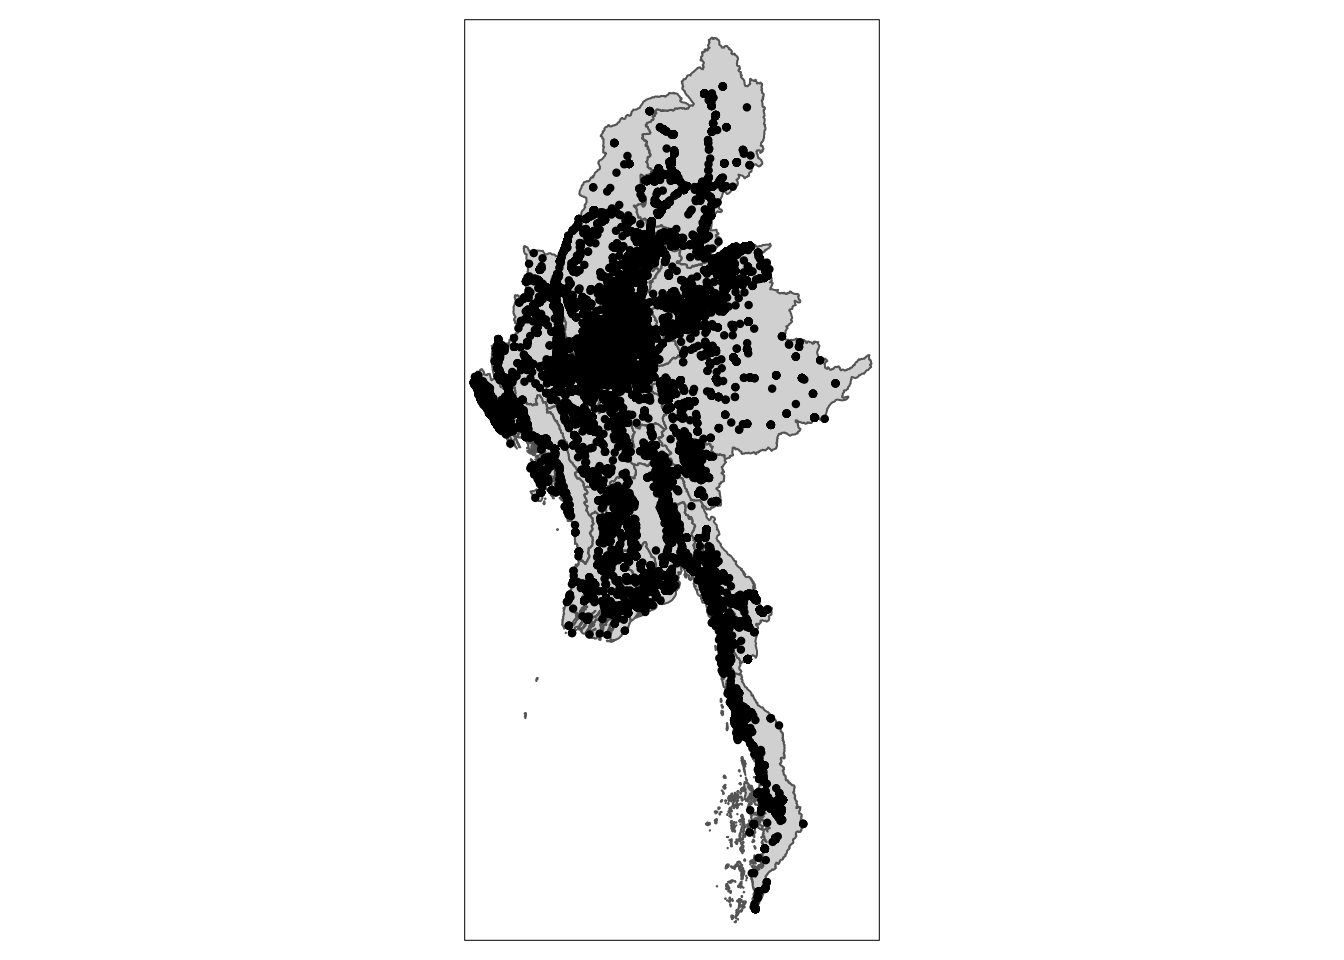
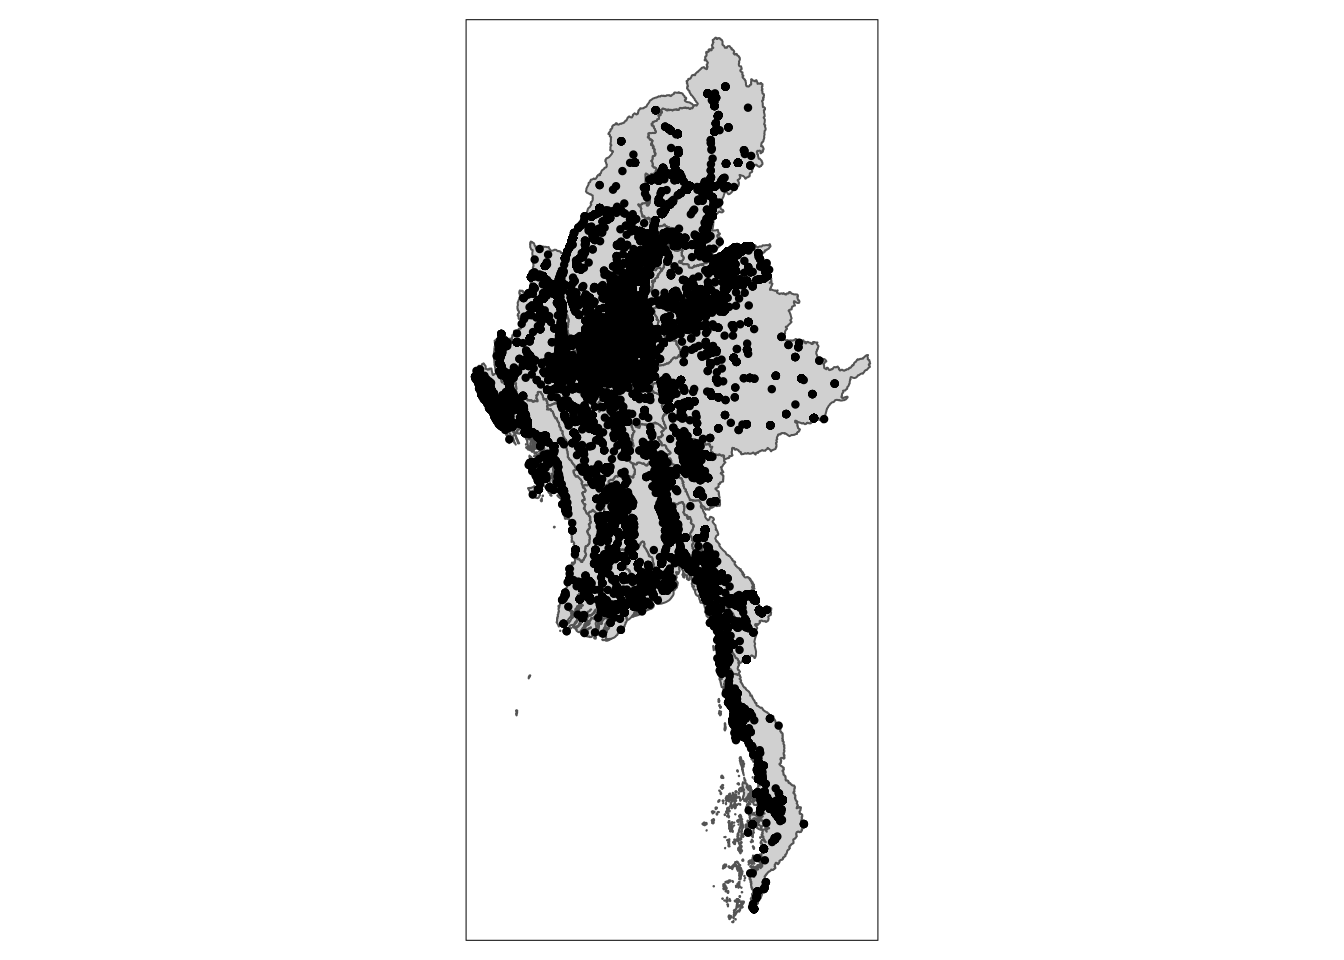
KDE for all quarters TH1

diff --git a/_site/TakeHome/TakeHome1/take-home-1.html b/_site/TakeHome/TakeHome1/take-home-1.html
@@ -212,9 +212,10 @@ pre > code.sourceCode > span > a:first-child::before { text-decoration: underlin
   <li><a href="#th1.3.1-loading-r-packages-and-aspatial-data" id="toc-th1.3.1-loading-r-packages-and-aspatial-data" class="nav-link" data-scroll-target="#th1.3.1-loading-r-packages-and-aspatial-data">TH1.3.1 Loading R packages and aspatial data</a></li>
   <li><a href="#th1.3.2-loading-and-plotting-geospatial-data" id="toc-th1.3.2-loading-and-plotting-geospatial-data" class="nav-link" data-scroll-target="#th1.3.2-loading-and-plotting-geospatial-data">TH1.3.2 Loading and plotting geospatial data</a></li>
   <li><a href="#th1.3.3-creating-sf-data-frame-from-aspatial-data" id="toc-th1.3.3-creating-sf-data-frame-from-aspatial-data" class="nav-link" data-scroll-target="#th1.3.3-creating-sf-data-frame-from-aspatial-data">TH1.3.3 Creating <code>sf</code> data frame from aspatial data</a></li>
+  <li><a href="#th1.3.4-final-steps-to-prepare-for-kde" id="toc-th1.3.4-final-steps-to-prepare-for-kde" class="nav-link" data-scroll-target="#th1.3.4-final-steps-to-prepare-for-kde">TH1.3.4 Final steps to prepare for KDE</a></li>
   </ul></li>
   <li><a href="#th1.4-interlude-a-brief-history-of-myanmars-ethnic-groups" id="toc-th1.4-interlude-a-brief-history-of-myanmars-ethnic-groups" class="nav-link" data-scroll-target="#th1.4-interlude-a-brief-history-of-myanmars-ethnic-groups">TH1.4 Interlude: A brief history of Myanmar’s ethnic groups</a></li>
-  <li><a href="#th1.5-first-order-sppa" id="toc-th1.5-first-order-sppa" class="nav-link" data-scroll-target="#th1.5-first-order-sppa">TH1.5 First Order SPPA</a></li>
+  <li><a href="#th1.5-first-order-sppa---kde" id="toc-th1.5-first-order-sppa---kde" class="nav-link" data-scroll-target="#th1.5-first-order-sppa---kde">TH1.5 First Order SPPA - KDE</a></li>
   <li><a href="#references" id="toc-references" class="nav-link" data-scroll-target="#references">References</a></li>
   <li><a href="#annex-a-spatial-temporal-distribution-of-armed-conflict-occurrences-in-myanmar-between-2019-and-2023" id="toc-annex-a-spatial-temporal-distribution-of-armed-conflict-occurrences-in-myanmar-between-2019-and-2023" class="nav-link" data-scroll-target="#annex-a-spatial-temporal-distribution-of-armed-conflict-occurrences-in-myanmar-between-2019-and-2023">Annex A: Spatial-temporal distribution of armed conflict occurrences in Myanmar between 2019 and 2023</a></li>
   </ul>
@@ -250,7 +251,7 @@ pre > code.sourceCode > span > a:first-child::before { text-decoration: underlin
     <div>
     <div class="quarto-title-meta-heading">Modified</div>
     <div class="quarto-title-meta-contents">
-      <p class="date-modified">September 11, 2024</p>
+      <p class="date-modified">September 12, 2024</p>
     </div>
   </div>
     
@@ -379,10 +380,10 @@ First 10 features:
 <div class="cell">
 <div class="sourceCode cell-code" id="cb10"><pre class="sourceCode r code-with-copy"><code class="sourceCode r"><span id="cb10-1"><a href="#cb10-1" aria-hidden="true" tabindex="-1"></a>acled_mya_sf <span class="ot">&lt;-</span> <span class="fu">st_as_sf</span>(acled_mya, <span class="at">coords =</span> <span class="fu">c</span>(<span class="st">"longitude"</span>, <span class="st">"latitude"</span>), <span class="at">crs =</span> <span class="dv">4326</span>)</span></code><button title="Copy to Clipboard" class="code-copy-button"><i class="bi"></i></button></pre></div>
 </div>
-<p>The EPSG area code for Myanmar is <a href="https://epsg.io/4239"><code>4239</code></a>. Before we work further with our datasets, we will need to transform the coordinate system to use it.</p>
+<p>The EPSG area code for Myanmar is <a href="https://epsg.io/4239"><code>4239</code></a>, while the WGS 84-compatible code is <a href="https://epsg.io/32647"><code>32647</code></a>. Since we’re creating an <code>owin</code> object later, we need to first convert our coordinate system.</p>
 <div class="cell">
-<div class="sourceCode cell-code" id="cb11"><pre class="sourceCode r code-with-copy"><code class="sourceCode r"><span id="cb11-1"><a href="#cb11-1" aria-hidden="true" tabindex="-1"></a>acled_mya_sf <span class="ot">&lt;-</span> acled_mya_sf <span class="sc">%&gt;%</span> <span class="fu">st_transform</span>(<span class="at">crs =</span> <span class="dv">4239</span>)</span>
-<span id="cb11-2"><a href="#cb11-2" aria-hidden="true" tabindex="-1"></a>mmr_admin1 <span class="ot">&lt;-</span> mmr_admin1 <span class="sc">%&gt;%</span> <span class="fu">st_transform</span>(<span class="at">crs =</span> <span class="dv">4239</span>)</span>
+<div class="sourceCode cell-code" id="cb11"><pre class="sourceCode r code-with-copy"><code class="sourceCode r"><span id="cb11-1"><a href="#cb11-1" aria-hidden="true" tabindex="-1"></a>acled_mya_sf <span class="ot">&lt;-</span> acled_mya_sf <span class="sc">%&gt;%</span> <span class="fu">st_transform</span>(<span class="at">crs =</span> <span class="dv">32647</span>)</span>
+<span id="cb11-2"><a href="#cb11-2" aria-hidden="true" tabindex="-1"></a>mmr_admin1 <span class="ot">&lt;-</span> mmr_admin1 <span class="sc">%&gt;%</span> <span class="fu">st_transform</span>(<span class="at">crs =</span> <span class="dv">32647</span>)</span>
 <span id="cb11-3"><a href="#cb11-3" aria-hidden="true" tabindex="-1"></a><span class="fu">tm_shape</span>(mmr_admin1) <span class="sc">+</span> <span class="fu">tm_polygons</span>() <span class="sc">+</span> <span class="fu">tm_shape</span>(acled_mya_sf) <span class="sc">+</span> <span class="fu">tm_dots</span>(<span class="at">size =</span> <span class="fl">0.05</span>)</span></code><button title="Copy to Clipboard" class="code-copy-button"><i class="bi"></i></button></pre></div>
 <div class="cell-output-display">
 <div>
@@ -399,15 +400,112 @@ First 10 features:
 <span id="cb12-2"><a href="#cb12-2" aria-hidden="true" tabindex="-1"></a>    <span class="fu">mutate</span>(<span class="at">event_date =</span> <span class="fu">dmy</span>(event_date)) <span class="sc">%&gt;%</span></span>
 <span id="cb12-3"><a href="#cb12-3" aria-hidden="true" tabindex="-1"></a>    <span class="fu">mutate</span>(<span class="at">DayOfYear =</span> <span class="fu">yday</span>(event_date)) <span class="sc">%&gt;%</span></span>
 <span id="cb12-4"><a href="#cb12-4" aria-hidden="true" tabindex="-1"></a>    <span class="fu">mutate</span>(<span class="at">Month_num =</span> <span class="fu">format</span>(event_date, <span class="st">"%Y-%m"</span>)) <span class="sc">%&gt;%</span>  <span class="co"># Year-Month format</span></span>
-<span id="cb12-5"><a href="#cb12-5" aria-hidden="true" tabindex="-1"></a>    <span class="fu">mutate</span>(<span class="at">Month_fac =</span> <span class="fu">factor</span>(<span class="fu">format</span>(event_date, <span class="st">"%B %Y"</span>)))  <span class="co"># Full month </span></span></code><button title="Copy to Clipboard" class="code-copy-button"><i class="bi"></i></button></pre></div>
+<span id="cb12-5"><a href="#cb12-5" aria-hidden="true" tabindex="-1"></a>    <span class="fu">mutate</span>(<span class="at">Month_fac =</span> <span class="fu">factor</span>(<span class="fu">format</span>(event_date, <span class="st">"%B %Y"</span>))) <span class="sc">%&gt;%</span> <span class="co"># Full month</span></span>
+<span id="cb12-6"><a href="#cb12-6" aria-hidden="true" tabindex="-1"></a>    <span class="fu">mutate</span>(<span class="at">Quarter =</span> <span class="fu">paste0</span>(<span class="fu">year</span>(event_date), <span class="st">"-"</span>, <span class="fu">quarter</span>(event_date), <span class="st">"Q"</span>))  <span class="co"># Quarter format</span></span></code><button title="Copy to Clipboard" class="code-copy-button"><i class="bi"></i></button></pre></div>
 </div>
+</section>
+<section id="th1.3.4-final-steps-to-prepare-for-kde" class="level3">
+<h3 class="anchored" data-anchor-id="th1.3.4-final-steps-to-prepare-for-kde">TH1.3.4 Final steps to prepare for KDE</h3>
+<p>Finally, before moving on to our KDE,</p>
+<section id="th1.3.4.1-using-owin-to-confine-study-area-within-myanmar-borders" class="level4">
+<h4 class="anchored" data-anchor-id="th1.3.4.1-using-owin-to-confine-study-area-within-myanmar-borders">TH1.3.4.1 Using <code>owin</code> to confine study area within Myanmar borders</h4>
+<div class="cell">
+<div class="sourceCode cell-code" id="cb13"><pre class="sourceCode r code-with-copy"><code class="sourceCode r"><span id="cb13-1"><a href="#cb13-1" aria-hidden="true" tabindex="-1"></a>mmr_admin1_owin <span class="ot">&lt;-</span> <span class="fu">as.owin</span>(mmr_admin1)</span>
+<span id="cb13-2"><a href="#cb13-2" aria-hidden="true" tabindex="-1"></a><span class="fu">plot</span>(mmr_admin1_owin)</span></code><button title="Copy to Clipboard" class="code-copy-button"><i class="bi"></i></button></pre></div>
+<div class="cell-output-display">
+<div>
+<figure class="figure">
+<p><img src="take-home-1_files/figure-html/unnamed-chunk-6-1.png" class="img-fluid figure-img" width="672"></p>
+</figure>
+</div>
+</div>
+<div class="sourceCode cell-code" id="cb14"><pre class="sourceCode r code-with-copy"><code class="sourceCode r"><span id="cb14-1"><a href="#cb14-1" aria-hidden="true" tabindex="-1"></a><span class="co"># summary(mmr_admin1_owin)</span></span></code><button title="Copy to Clipboard" class="code-copy-button"><i class="bi"></i></button></pre></div>
+</div>
+</section>
+<section id="th1.3.4.2-converting-acled-sf-object-to-ppp-for-kde" class="level4">
+<h4 class="anchored" data-anchor-id="th1.3.4.2-converting-acled-sf-object-to-ppp-for-kde">TH1.3.4.2 Converting ACLED <code>sf</code> object to <code>ppp</code> for KDE</h4>
+<div class="cell">
+<div class="sourceCode cell-code" id="cb15"><pre class="sourceCode r code-with-copy"><code class="sourceCode r"><span id="cb15-1"><a href="#cb15-1" aria-hidden="true" tabindex="-1"></a>acled_mya_ppp <span class="ot">&lt;-</span> <span class="fu">as.ppp</span>(acled_mya_sf)</span></code><button title="Copy to Clipboard" class="code-copy-button"><i class="bi"></i></button></pre></div>
+<div class="cell-output cell-output-stderr">
+<pre><code>Warning in as.ppp.sf(acled_mya_sf): only first attribute column is used for
+marks</code></pre>
+</div>
+<div class="sourceCode cell-code" id="cb17"><pre class="sourceCode r code-with-copy"><code class="sourceCode r"><span id="cb17-1"><a href="#cb17-1" aria-hidden="true" tabindex="-1"></a><span class="fu">plot</span>(acled_mya_ppp)</span></code><button title="Copy to Clipboard" class="code-copy-button"><i class="bi"></i></button></pre></div>
+<div class="cell-output cell-output-stderr">
+<pre><code>Warning in default.charmap(ntypes, chars): Too many types to display every type
+as a different character</code></pre>
+</div>
+<div class="cell-output cell-output-stderr">
+<pre><code>Warning: Only 10 out of 47832 symbols are shown in the symbol map</code></pre>
+</div>
+<div class="cell-output-display">
+<div>
+<figure class="figure">
+<p><img src="take-home-1_files/figure-html/unnamed-chunk-7-1.png" class="img-fluid figure-img" width="672"></p>
+</figure>
+</div>
+</div>
+<div class="sourceCode cell-code" id="cb20"><pre class="sourceCode r code-with-copy"><code class="sourceCode r"><span id="cb20-1"><a href="#cb20-1" aria-hidden="true" tabindex="-1"></a>acled_mya_ppp</span></code><button title="Copy to Clipboard" class="code-copy-button"><i class="bi"></i></button></pre></div>
+<div class="cell-output cell-output-stdout">
+<pre><code>Marked planar point pattern: 47832 points
+marks are of storage type  'character'
+window: rectangle = [-207135, 640934.5] x [1103500.1, 3042960.3] units</code></pre>
+</div>
+</div>
+</section>
+<section id="th1.3.4.3-handling-duplicates" class="level4">
+<h4 class="anchored" data-anchor-id="th1.3.4.3-handling-duplicates">TH1.3.4.3 Handling duplicates</h4>
+<p>First, we check if there are duplicated points in the ACLED <code>ppp</code>.</p>
+<div class="cell">
+<div class="sourceCode cell-code" id="cb22"><pre class="sourceCode r code-with-copy"><code class="sourceCode r"><span id="cb22-1"><a href="#cb22-1" aria-hidden="true" tabindex="-1"></a><span class="fu">any</span>(<span class="fu">duplicated</span>(acled_mya_ppp))</span></code><button title="Copy to Clipboard" class="code-copy-button"><i class="bi"></i></button></pre></div>
+<div class="cell-output cell-output-stdout">
+<pre><code>[1] FALSE</code></pre>
+</div>
+<div class="sourceCode cell-code" id="cb24"><pre class="sourceCode r code-with-copy"><code class="sourceCode r"><span id="cb24-1"><a href="#cb24-1" aria-hidden="true" tabindex="-1"></a><span class="fu">sum</span>(<span class="fu">multiplicity</span>(acled_mya_ppp) <span class="sc">&gt;</span> <span class="dv">1</span>)</span></code><button title="Copy to Clipboard" class="code-copy-button"><i class="bi"></i></button></pre></div>
+<div class="cell-output cell-output-stdout">
+<pre><code>[1] 0</code></pre>
+</div>
+</div>
+</section>
+<section id="th1.3.4.4-combining-point-events-object-and-owin" class="level4">
+<h4 class="anchored" data-anchor-id="th1.3.4.4-combining-point-events-object-and-owin">TH1.3.4.4 Combining point events object and <code>owin</code></h4>
+<div class="cell">
+<div class="sourceCode cell-code" id="cb26"><pre class="sourceCode r code-with-copy"><code class="sourceCode r"><span id="cb26-1"><a href="#cb26-1" aria-hidden="true" tabindex="-1"></a>acled_mya_ppp <span class="ot">=</span> acled_mya_ppp[mmr_admin1_owin]</span>
+<span id="cb26-2"><a href="#cb26-2" aria-hidden="true" tabindex="-1"></a><span class="fu">plot</span>(acled_mya_ppp)</span></code><button title="Copy to Clipboard" class="code-copy-button"><i class="bi"></i></button></pre></div>
+<div class="cell-output cell-output-stderr">
+<pre><code>Warning in default.charmap(ntypes, chars): Too many types to display every type
+as a different character</code></pre>
+</div>
+<div class="cell-output cell-output-stderr">
+<pre><code>Warning: Only 10 out of 47825 symbols are shown in the symbol map</code></pre>
+</div>
+<div class="cell-output-display">
+<div>
+<figure class="figure">
+<p><img src="take-home-1_files/figure-html/unnamed-chunk-9-1.png" class="img-fluid figure-img" width="672"></p>
+</figure>
+</div>
+</div>
+</div>
+</section>
 </section>
 </section>
 <section id="th1.4-interlude-a-brief-history-of-myanmars-ethnic-groups" class="level2">
 <h2 class="anchored" data-anchor-id="th1.4-interlude-a-brief-history-of-myanmars-ethnic-groups">TH1.4 Interlude: A brief history of Myanmar’s ethnic groups</h2>
 </section>
-<section id="th1.5-first-order-sppa" class="level2">
-<h2 class="anchored" data-anchor-id="th1.5-first-order-sppa">TH1.5 First Order SPPA</h2>
+<section id="th1.5-first-order-sppa---kde" class="level2">
+<h2 class="anchored" data-anchor-id="th1.5-first-order-sppa---kde">TH1.5 First Order SPPA - KDE</h2>
+<p>Kernel density estimation (KDE) serves to compute the <em>intensity</em> of a point distribution. It has two general steps: first to compute the point intensity, followed by spatial interpolation using a kernel function.</p>
+<div class="cell">
+<div class="sourceCode cell-code" id="cb29"><pre class="sourceCode r code-with-copy"><code class="sourceCode r"><span id="cb29-1"><a href="#cb29-1" aria-hidden="true" tabindex="-1"></a><span class="co"># Create a list to store KDE results and track quarters for each quarter</span></span>
+<span id="cb29-2"><a href="#cb29-2" aria-hidden="true" tabindex="-1"></a>kde_results <span class="ot">&lt;-</span> <span class="fu">list</span>()</span>
+<span id="cb29-3"><a href="#cb29-3" aria-hidden="true" tabindex="-1"></a>quarters <span class="ot">&lt;-</span> <span class="fu">unique</span>(acled_mya_ppp<span class="sc">$</span>Quarter)</span>
+<span id="cb29-4"><a href="#cb29-4" aria-hidden="true" tabindex="-1"></a><span class="cf">for</span> (quarter <span class="cf">in</span> quarters) {</span>
+<span id="cb29-5"><a href="#cb29-5" aria-hidden="true" tabindex="-1"></a>  acled_mya_quarters_subset <span class="ot">&lt;-</span> acled_mya_ppp[acled_mya_ppp<span class="sc">$</span>Quarter <span class="sc">==</span> quarter]</span>
+<span id="cb29-6"><a href="#cb29-6" aria-hidden="true" tabindex="-1"></a>  <span class="co"># Compute KDE and append to list</span></span>
+<span id="cb29-7"><a href="#cb29-7" aria-hidden="true" tabindex="-1"></a>  kde_results[[<span class="fu">as.character</span>(quarter)]] <span class="ot">&lt;-</span> <span class="fu">density</span>(acled_mya_quarters_subset)</span>
+<span id="cb29-8"><a href="#cb29-8" aria-hidden="true" tabindex="-1"></a>}</span></code><button title="Copy to Clipboard" class="code-copy-button"><i class="bi"></i></button></pre></div>
+</div>
 </section>
 <section id="references" class="level2">
 <h2 class="anchored" data-anchor-id="references">References</h2>
@@ -418,201 +516,71 @@ First 10 features:
 <section id="annex-a-spatial-temporal-distribution-of-armed-conflict-occurrences-in-myanmar-between-2019-and-2023" class="level2">
 <h2 class="anchored" data-anchor-id="annex-a-spatial-temporal-distribution-of-armed-conflict-occurrences-in-myanmar-between-2019-and-2023">Annex A: Spatial-temporal distribution of armed conflict occurrences in Myanmar between 2019 and 2023</h2>
 <div class="cell">
-<div class="sourceCode cell-code" id="cb13"><pre class="sourceCode r code-with-copy"><code class="sourceCode r"><span id="cb13-1"><a href="#cb13-1" aria-hidden="true" tabindex="-1"></a><span class="fu">tm_shape</span>(mmr_admin1) <span class="sc">+</span> <span class="fu">tm_polygons</span>() <span class="sc">+</span> <span class="fu">tm_shape</span>(acled_mya_sf) <span class="sc">+</span> <span class="fu">tm_dots</span>(<span class="at">size =</span> <span class="fl">0.1</span>) <span class="sc">+</span> <span class="fu">tm_facets</span>(<span class="at">by=</span><span class="st">"Month_num"</span>, <span class="at">free.coords=</span><span class="cn">FALSE</span>, <span class="at">drop.units=</span><span class="cn">TRUE</span>, <span class="at">ncol=</span><span class="dv">3</span>, <span class="at">nrow=</span><span class="dv">1</span>)</span></code><button title="Copy to Clipboard" class="code-copy-button"><i class="bi"></i></button></pre></div>
+<div class="sourceCode cell-code" id="cb30"><pre class="sourceCode r code-with-copy"><code class="sourceCode r"><span id="cb30-1"><a href="#cb30-1" aria-hidden="true" tabindex="-1"></a><span class="fu">tm_shape</span>(mmr_admin1) <span class="sc">+</span> <span class="fu">tm_polygons</span>() <span class="sc">+</span> <span class="fu">tm_shape</span>(acled_mya_sf) <span class="sc">+</span> <span class="fu">tm_dots</span>(<span class="at">size =</span> <span class="fl">0.1</span>) <span class="sc">+</span> <span class="fu">tm_facets</span>(<span class="at">by=</span><span class="st">"Quarter"</span>, <span class="at">free.coords=</span><span class="cn">FALSE</span>, <span class="at">drop.units=</span><span class="cn">TRUE</span>, <span class="at">ncol=</span><span class="dv">3</span>, <span class="at">nrow=</span><span class="dv">1</span>)</span></code><button title="Copy to Clipboard" class="code-copy-button"><i class="bi"></i></button></pre></div>
 <div class="cell-output-display">
 <div>
 <figure class="figure">
-<p><img src="take-home-1_files/figure-html/unnamed-chunk-6-1.png" class="img-fluid figure-img" width="672"></p>
+<p><img src="take-home-1_files/figure-html/unnamed-chunk-11-1.png" class="img-fluid figure-img" width="672"></p>
 </figure>
 </div>
 </div>
 <div class="cell-output cell-output-stdout">
-<pre><code>========</code></pre>
+<pre><code>=======================</code></pre>
 </div>
 <div class="cell-output-display">
 <div>
 <figure class="figure">
-<p><img src="take-home-1_files/figure-html/unnamed-chunk-6-2.png" class="img-fluid figure-img" width="672"></p>
+<p><img src="take-home-1_files/figure-html/unnamed-chunk-11-2.png" class="img-fluid figure-img" width="672"></p>
 </figure>
 </div>
 </div>
 <div class="cell-output cell-output-stdout">
-<pre><code>====</code></pre>
+<pre><code>===========</code></pre>
 </div>
 <div class="cell-output-display">
 <div>
 <figure class="figure">
-<p><img src="take-home-1_files/figure-html/unnamed-chunk-6-3.png" class="img-fluid figure-img" width="672"></p>
+<p><img src="take-home-1_files/figure-html/unnamed-chunk-11-3.png" class="img-fluid figure-img" width="672"></p>
 </figure>
 </div>
 </div>
 <div class="cell-output cell-output-stdout">
-<pre><code>====</code></pre>
+<pre><code>============</code></pre>
 </div>
 <div class="cell-output-display">
 <div>
 <figure class="figure">
-<p><img src="take-home-1_files/figure-html/unnamed-chunk-6-4.png" class="img-fluid figure-img" width="672"></p>
+<p><img src="take-home-1_files/figure-html/unnamed-chunk-11-4.png" class="img-fluid figure-img" width="672"></p>
 </figure>
 </div>
 </div>
 <div class="cell-output cell-output-stdout">
-<pre><code>====</code></pre>
+<pre><code>===========</code></pre>
 </div>
 <div class="cell-output-display">
 <div>
 <figure class="figure">
-<p><img src="take-home-1_files/figure-html/unnamed-chunk-6-5.png" class="img-fluid figure-img" width="672"></p>
+<p><img src="take-home-1_files/figure-html/unnamed-chunk-11-5.png" class="img-fluid figure-img" width="672"></p>
 </figure>
 </div>
 </div>
 <div class="cell-output cell-output-stdout">
-<pre><code>====</code></pre>
+<pre><code>============</code></pre>
 </div>
 <div class="cell-output-display">
 <div>
 <figure class="figure">
-<p><img src="take-home-1_files/figure-html/unnamed-chunk-6-6.png" class="img-fluid figure-img" width="672"></p>
+<p><img src="take-home-1_files/figure-html/unnamed-chunk-11-6.png" class="img-fluid figure-img" width="672"></p>
 </figure>
 </div>
 </div>
 <div class="cell-output cell-output-stdout">
-<pre><code>====</code></pre>
+<pre><code>===========</code></pre>
 </div>
 <div class="cell-output-display">
 <div>
 <figure class="figure">
-<p><img src="take-home-1_files/figure-html/unnamed-chunk-6-7.png" class="img-fluid figure-img" width="672"></p>
-</figure>
-</div>
-</div>
-<div class="cell-output cell-output-stdout">
-<pre><code>====</code></pre>
-</div>
-<div class="cell-output-display">
-<div>
-<figure class="figure">
-<p><img src="take-home-1_files/figure-html/unnamed-chunk-6-8.png" class="img-fluid figure-img" width="672"></p>
-</figure>
-</div>
-</div>
-<div class="cell-output cell-output-stdout">
-<pre><code>====</code></pre>
-</div>
-<div class="cell-output-display">
-<div>
-<figure class="figure">
-<p><img src="take-home-1_files/figure-html/unnamed-chunk-6-9.png" class="img-fluid figure-img" width="672"></p>
-</figure>
-</div>
-</div>
-<div class="cell-output cell-output-stdout">
-<pre><code>====</code></pre>
-</div>
-<div class="cell-output-display">
-<div>
-<figure class="figure">
-<p><img src="take-home-1_files/figure-html/unnamed-chunk-6-10.png" class="img-fluid figure-img" width="672"></p>
-</figure>
-</div>
-</div>
-<div class="cell-output cell-output-stdout">
-<pre><code>====</code></pre>
-</div>
-<div class="cell-output-display">
-<div>
-<figure class="figure">
-<p><img src="take-home-1_files/figure-html/unnamed-chunk-6-11.png" class="img-fluid figure-img" width="672"></p>
-</figure>
-</div>
-</div>
-<div class="cell-output cell-output-stdout">
-<pre><code>====</code></pre>
-</div>
-<div class="cell-output-display">
-<div>
-<figure class="figure">
-<p><img src="take-home-1_files/figure-html/unnamed-chunk-6-12.png" class="img-fluid figure-img" width="672"></p>
-</figure>
-</div>
-</div>
-<div class="cell-output cell-output-stdout">
-<pre><code>====</code></pre>
-</div>
-<div class="cell-output-display">
-<div>
-<figure class="figure">
-<p><img src="take-home-1_files/figure-html/unnamed-chunk-6-13.png" class="img-fluid figure-img" width="672"></p>
-</figure>
-</div>
-</div>
-<div class="cell-output cell-output-stdout">
-<pre><code>====</code></pre>
-</div>
-<div class="cell-output-display">
-<div>
-<figure class="figure">
-<p><img src="take-home-1_files/figure-html/unnamed-chunk-6-14.png" class="img-fluid figure-img" width="672"></p>
-</figure>
-</div>
-</div>
-<div class="cell-output cell-output-stdout">
-<pre><code>====</code></pre>
-</div>
-<div class="cell-output-display">
-<div>
-<figure class="figure">
-<p><img src="take-home-1_files/figure-html/unnamed-chunk-6-15.png" class="img-fluid figure-img" width="672"></p>
-</figure>
-</div>
-</div>
-<div class="cell-output cell-output-stdout">
-<pre><code>====</code></pre>
-</div>
-<div class="cell-output-display">
-<div>
-<figure class="figure">
-<p><img src="take-home-1_files/figure-html/unnamed-chunk-6-16.png" class="img-fluid figure-img" width="672"></p>
-</figure>
-</div>
-</div>
-<div class="cell-output cell-output-stdout">
-<pre><code>====</code></pre>
-</div>
-<div class="cell-output-display">
-<div>
-<figure class="figure">
-<p><img src="take-home-1_files/figure-html/unnamed-chunk-6-17.png" class="img-fluid figure-img" width="672"></p>
-</figure>
-</div>
-</div>
-<div class="cell-output cell-output-stdout">
-<pre><code>====</code></pre>
-</div>
-<div class="cell-output-display">
-<div>
-<figure class="figure">
-<p><img src="take-home-1_files/figure-html/unnamed-chunk-6-18.png" class="img-fluid figure-img" width="672"></p>
-</figure>
-</div>
-</div>
-<div class="cell-output cell-output-stdout">
-<pre><code>====</code></pre>
-</div>
-<div class="cell-output-display">
-<div>
-<figure class="figure">
-<p><img src="take-home-1_files/figure-html/unnamed-chunk-6-19.png" class="img-fluid figure-img" width="672"></p>
-</figure>
-</div>
-</div>
-<div class="cell-output cell-output-stdout">
-<pre><code>====</code></pre>
-</div>
-<div class="cell-output-display">
-<div>
-<figure class="figure">
-<p><img src="take-home-1_files/figure-html/unnamed-chunk-6-20.png" class="img-fluid figure-img" width="672"></p>
+<p><img src="take-home-1_files/figure-html/unnamed-chunk-11-7.png" class="img-fluid figure-img" width="672"></p>
 </figure>
 </div>
 </div>
